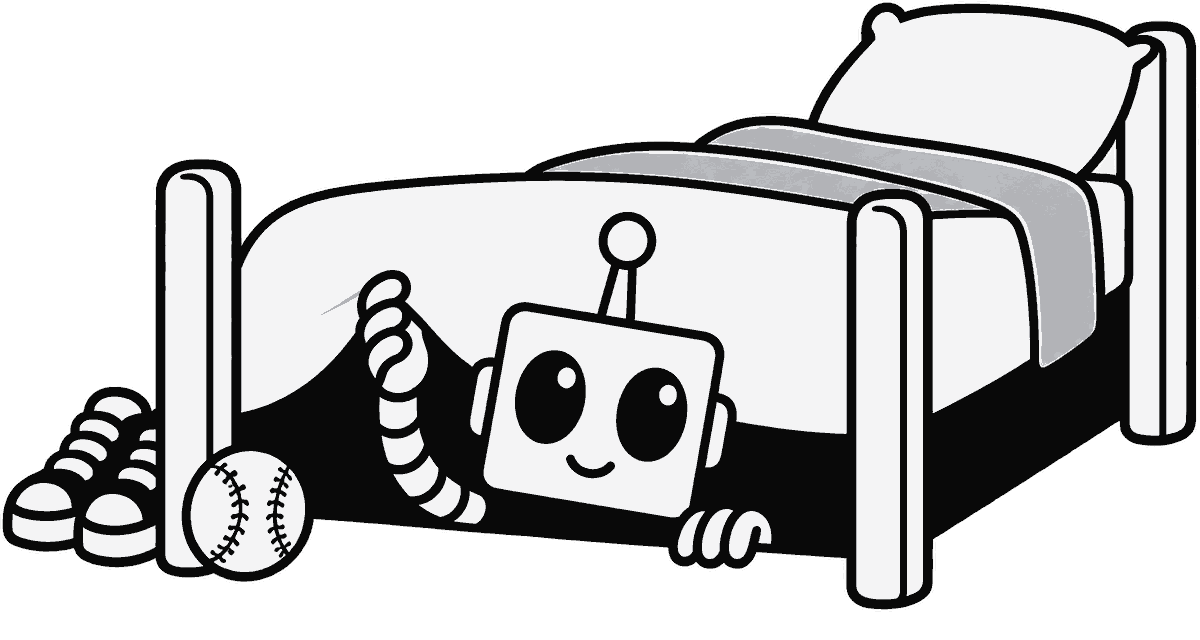
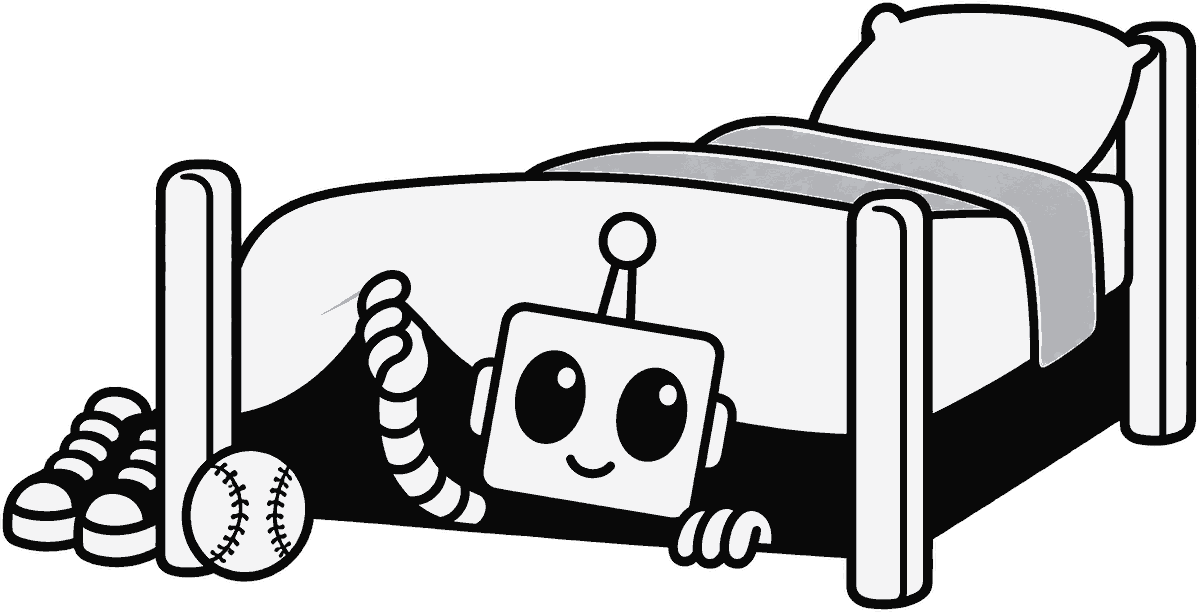
Add files via upload

diff --git a/public/index.html b/public/index.html
@@ -226,6 +226,12 @@ h1 .box::before{
   width:calc(100% + var(--bridge));
   height:auto;
   max-height:min(30vh,280px);
+  /* The artwork's ground line is raked. Its lowest point is a single thin post
+     foot; the shoes-and-near-post cluster — where the eye reads the bed as
+     touching the floor — sits 4.58% of the artwork's height above it. Dropping
+     by that amount puts the visual mass on the baseline and lets the one post
+     foot cross it. Proportional, so it holds at every size. */
+  transform:translateY(4.58%);
 }
 
 /* ---------------------------------------------------------------- desktop */
@@ -256,8 +262,8 @@ h1 .box::before{
   .rec-again{font-size:clamp(13px,1.8cqh,17px);}
   .rec .bk{width:3.2cqh;height:4.2cqh;}
 
-  .minor a{font-size:clamp(12px,1.8cqh,18px);}
-  .buy{font-size:clamp(17px,2.8cqh,28px);}
+  .minor a{font-size:clamp(12px,1.95cqh,19px);}
+  .buy{font-size:clamp(17px,3.1cqh,31px);}
 
   .bed img{max-height:31cqh;}
 }
@@ -386,7 +392,7 @@ h1 .box::before{
     </form>
 
     <div class="bed">
-      <img src="/assets/robot-bed.png" width="1200" height="640"
+      <img src="/assets/robot-bed.png" width="1200" height="612"
            alt="A small robot hiding under a bed">
     </div>
   </div>

diff --git a/README.md b/README.md
@@ -3,7 +3,20 @@
 The website for **There's a Robot Under Your Bed** — *A little book about humans.
 And AI.* by Michael Goldthorpe.
 
-**Status: v0.9 — vertical rhythm.**
+**Status: v1.0 — the bed lands.**
+
+### What's new in v1.0
+
+- **The artwork had 28 rows of fully transparent padding at its base** — an
+  artefact of the optimise-then-quantise pass. The boxes aligned at 0px while the
+  visible ink floated 13.5px above the CTA. Trimmed.
+- **The baseline is now set on visual mass, not the bounding box.** The bed's
+  ground line is raked: its lowest point is one thin post foot, and the
+  shoes-and-near-post cluster sits 4.58% of the artwork's height above it. The bed
+  is dropped by exactly that, so the heavy cluster lands on the line and the post
+  foot crosses it by ~12px. Expressed as a percentage, so it holds at any size.
+- **CTA up ~10%.** Because the two pills total the hero's width, the whole lockup
+  gains presence horizontally as well as vertically.
 
 ### What's new in v0.9
 
